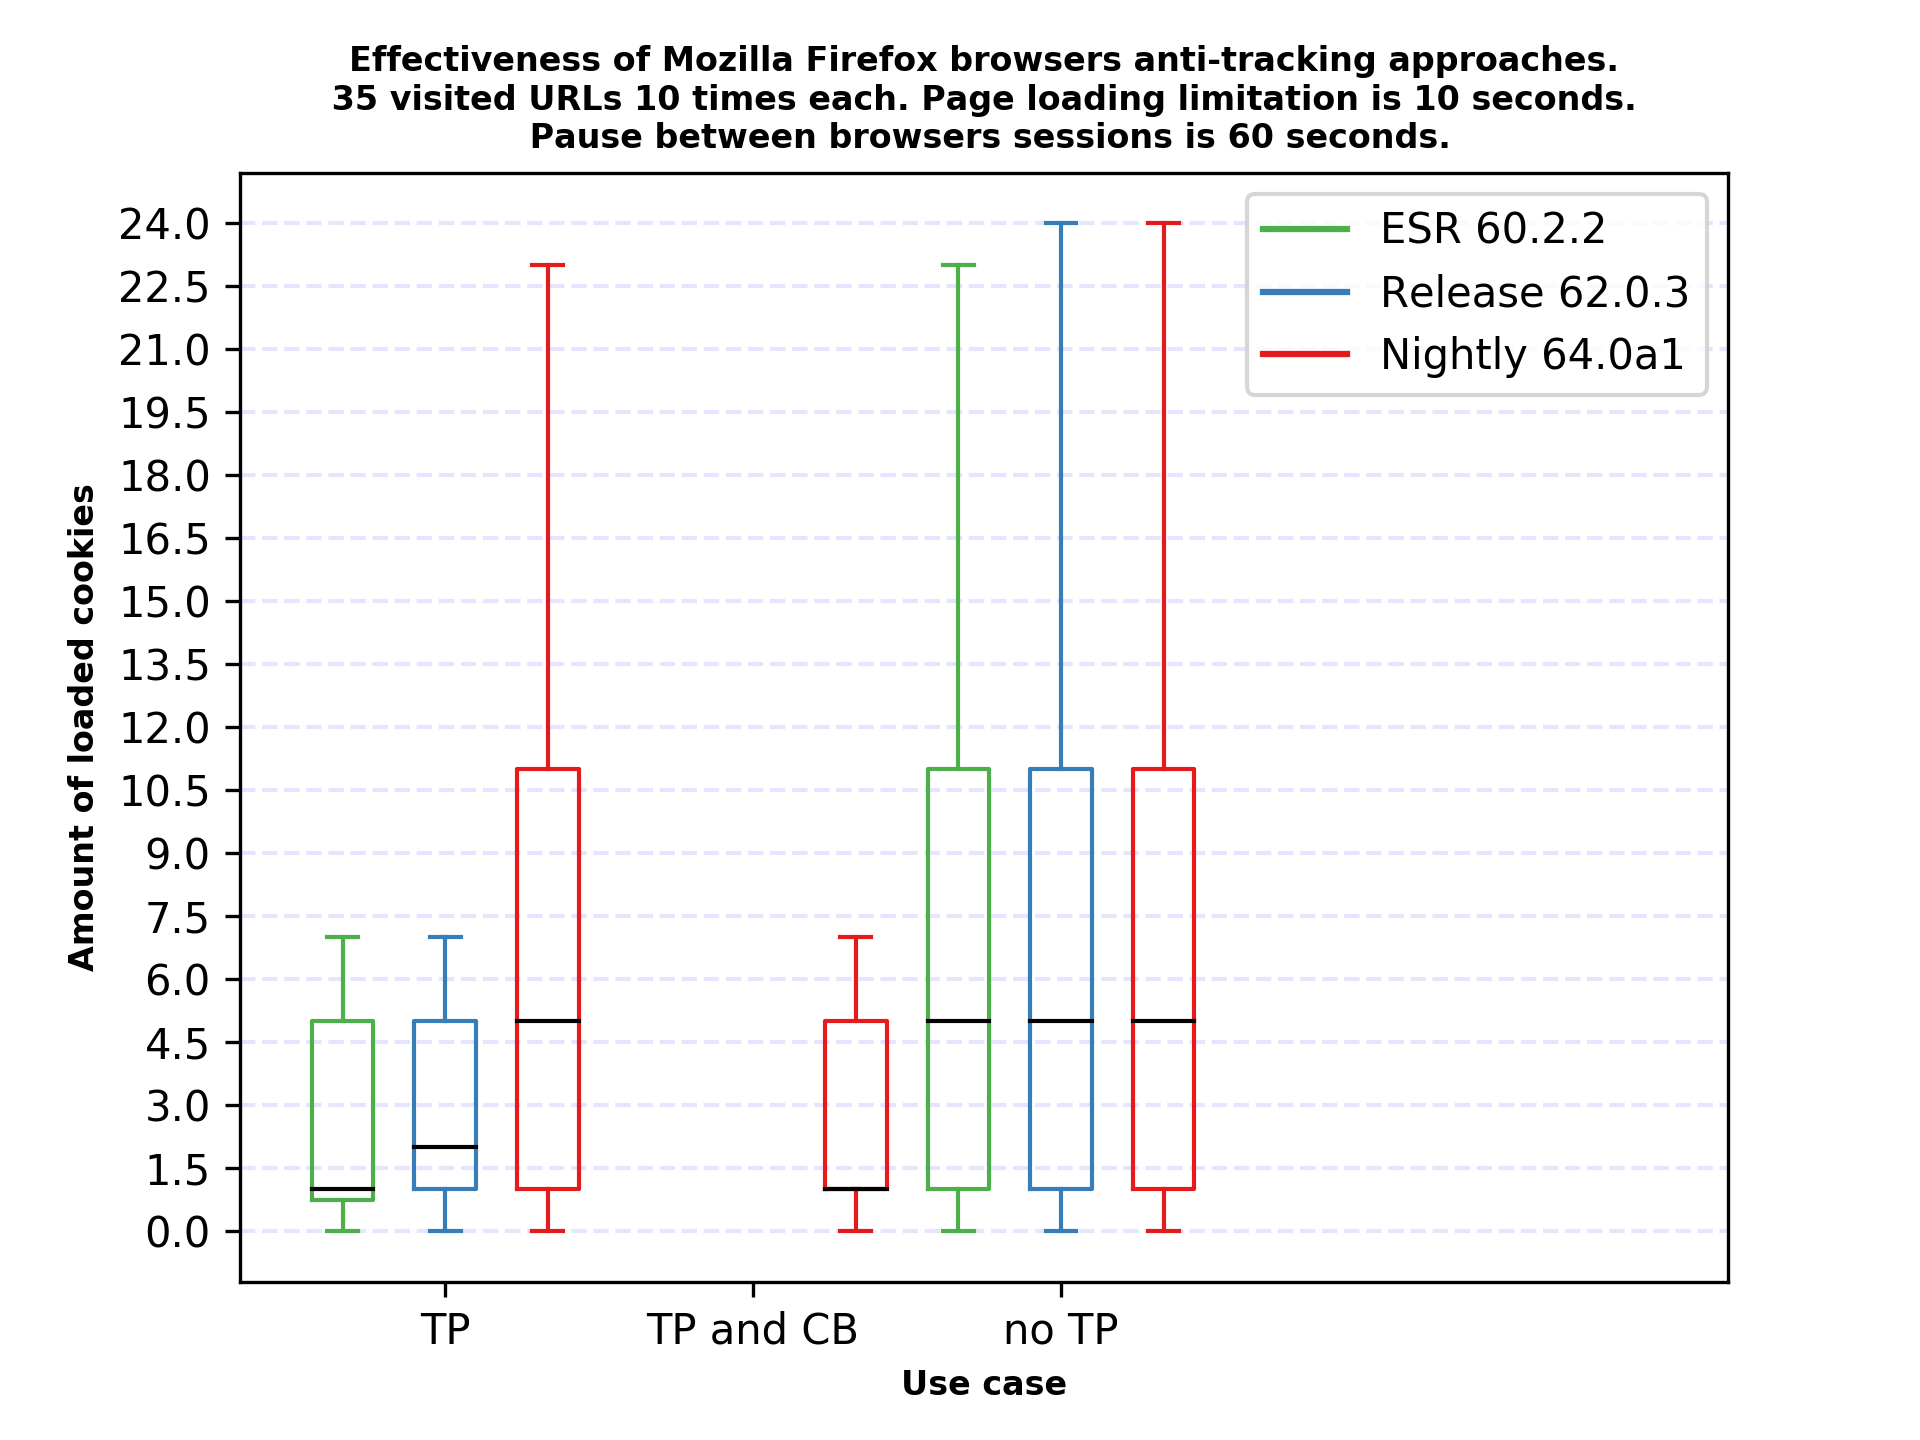
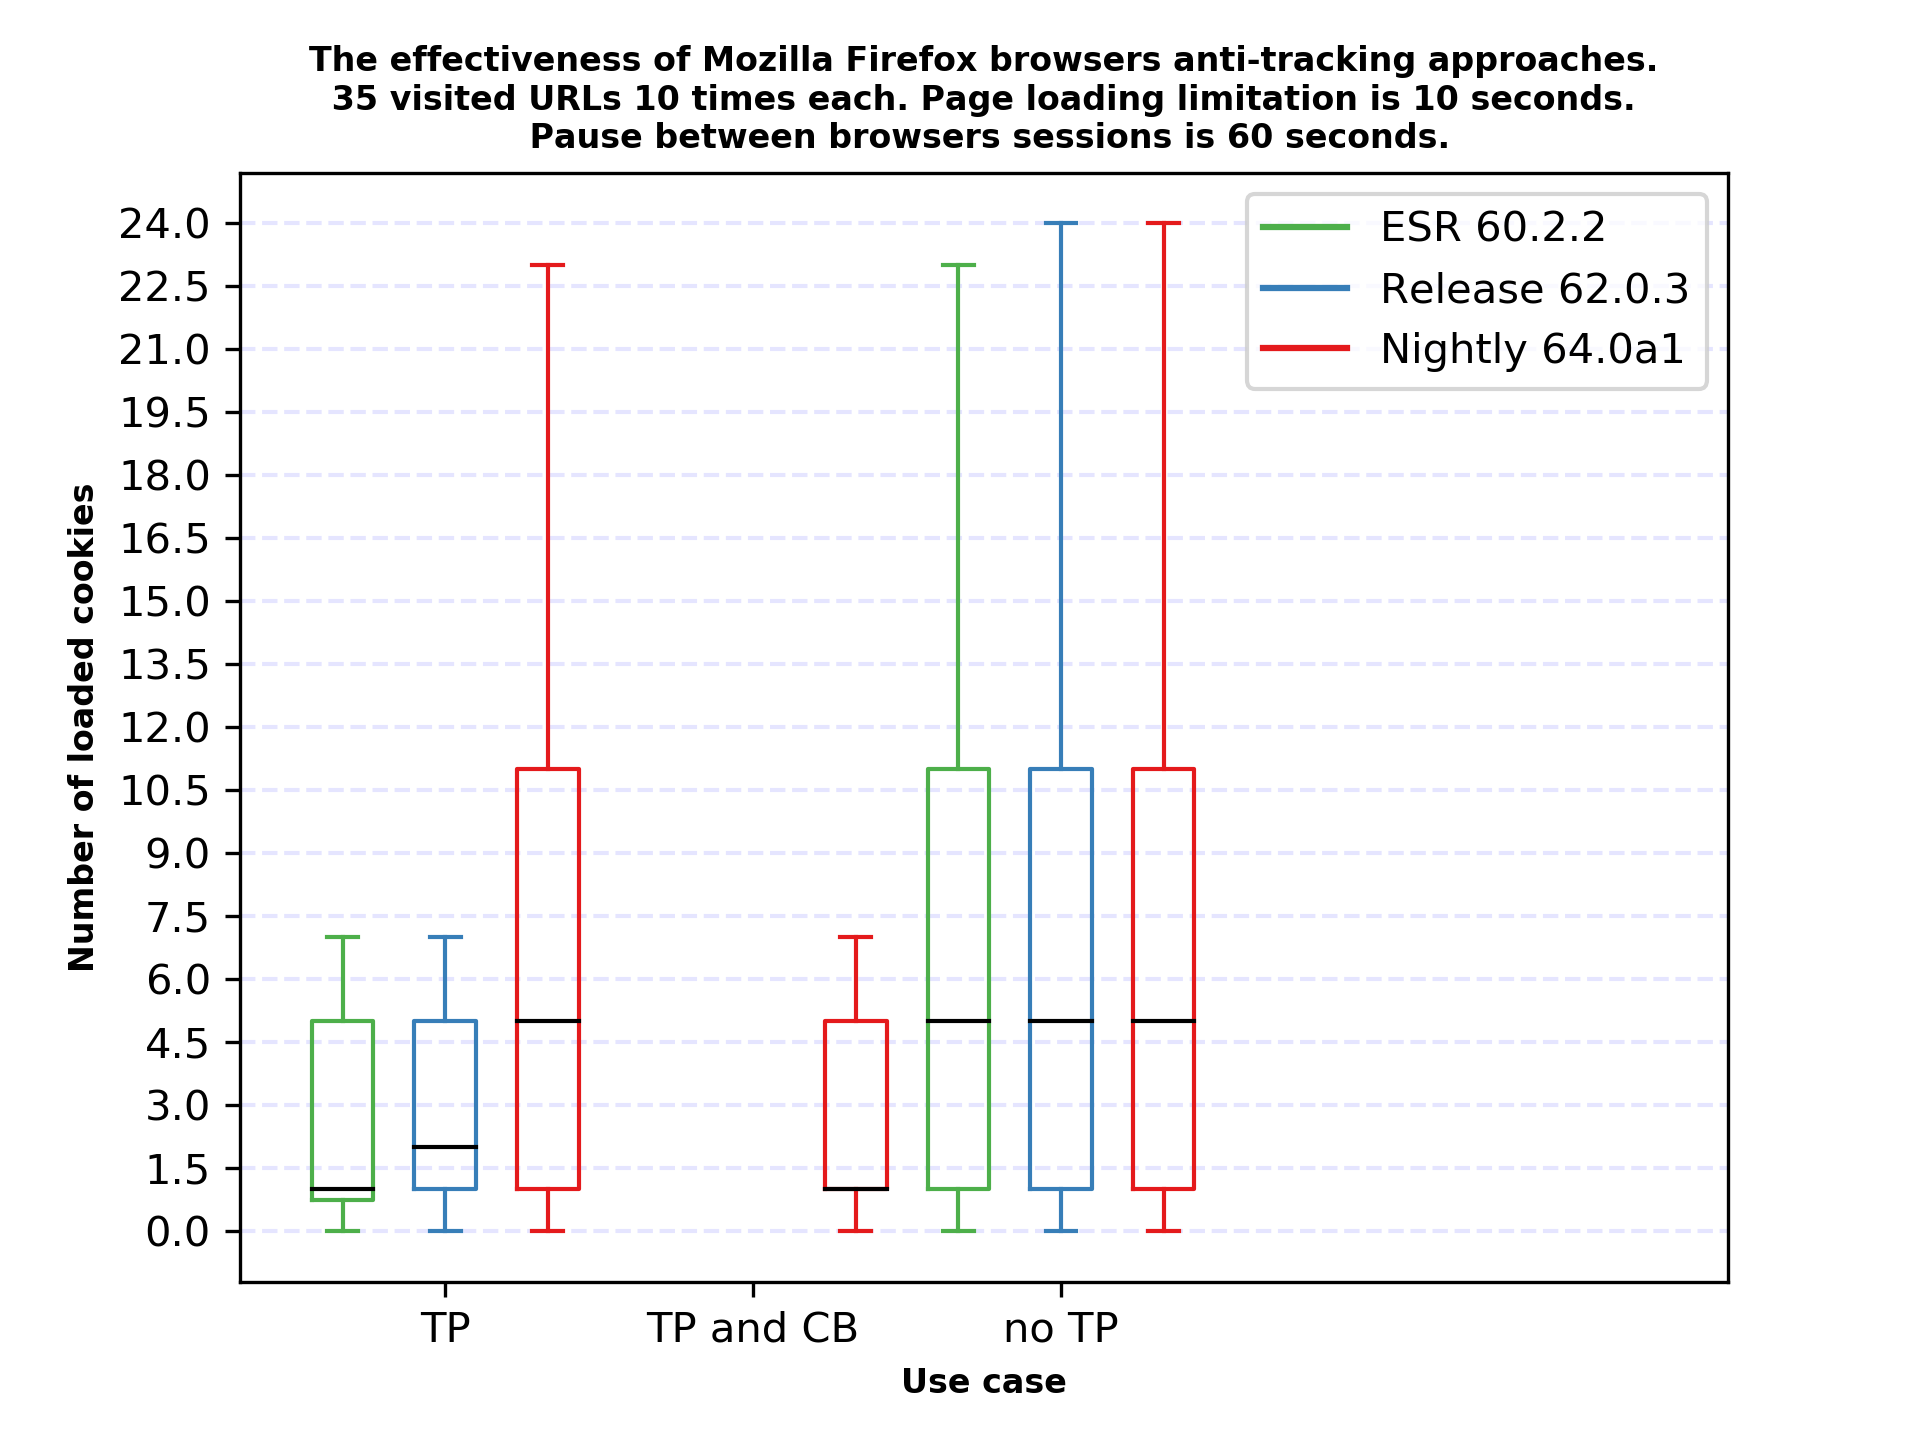
results

diff --git a/plot.py b/plot.py
@@ -36,7 +36,7 @@ with open(path_csv, 'r', encoding='utf-8') as results:
             csv_data.append((row[1][1], row[1][3], row[1][5]))
 print ("Group of usecases by x axis: {}".format(g_label))
 print ("Browser versions by x axis: {}".format(x_label))
-print ("Amount of cookies by y axis: {}".format(y_label))
+print ("Number of cookies by y axis: {}".format(y_label))
 #print (csv_data)
 
 # separate group and sort items from first column (group label)
@@ -96,7 +96,7 @@ plt.gca().yaxis.grid(color='b', linestyle='--', linewidth=1, alpha=0.1)
 plt.gca().yaxis.set_major_locator(plt.MaxNLocator(20))
 
 #plt.errorbar([i+1 for i,e in enumerate(data)], np.mean(data, axis=0), yerr=np.std(data, axis=0), color='green', linestyle='-', linewidth=1, alpha=0.50)
-plt.title('Effectiveness of Mozilla Firefox browsers anti-tracking approaches.\n 35 visited URLs 10 times each. Page loading limitation is 10 seconds. \n Pause between browsers sessions is 60 seconds.', 
+plt.title('The effectiveness of Mozilla Firefox browsers anti-tracking approaches.\n 35 visited URLs 10 times each. Page loading limitation is 10 seconds. \n Pause between browsers sessions is 60 seconds.', 
             fontsize=8, fontweight='bold')
 
 plt.plot([], c='#4daf4a', label='ESR 60.2.2')

diff --git a/main.py b/main.py
@@ -160,7 +160,7 @@ def browserSession(binary, profile, usecase, experiment):
         #print (cookies)
         print("Experiment number: {}" .format(experiment))
         print("Use case: {}".format(usecase))
-        print("Amount of loaded cookies: {}" .format(len(cookies)))
+        print("Number of loaded cookies: {}" .format(len(cookies)))
         write_measurements(path_csv, experiment, usecase, driver.capabilities['browserName'], driver.capabilities['browserVersion'], site, len(cookies))
 
     driver.quit()
@@ -172,7 +172,7 @@ def write_measurements(path_csv, experiment, usecase, browserName, browserVersio
     if ((not os.path.isfile(path_csv)) or (os.path.isfile(path_csv) and os.stat(path_csv).st_size==0) and (experiment == 0)):
         with open(path_csv, 'w', encoding='utf-8') as results:
             writer = csv.writer(results)
-            fields = ['Experiment', 'Use case', 'Browser Name', 'Browser Version', 'site', 'Amount of loaded cookies']
+            fields = ['Experiment', 'Use case', 'Browser Name', 'Browser Version', 'site', 'Number of loaded cookies']
             writer.writerow(fields)
 
         with open(path_csv, 'a+', encoding='utf-8') as results:
